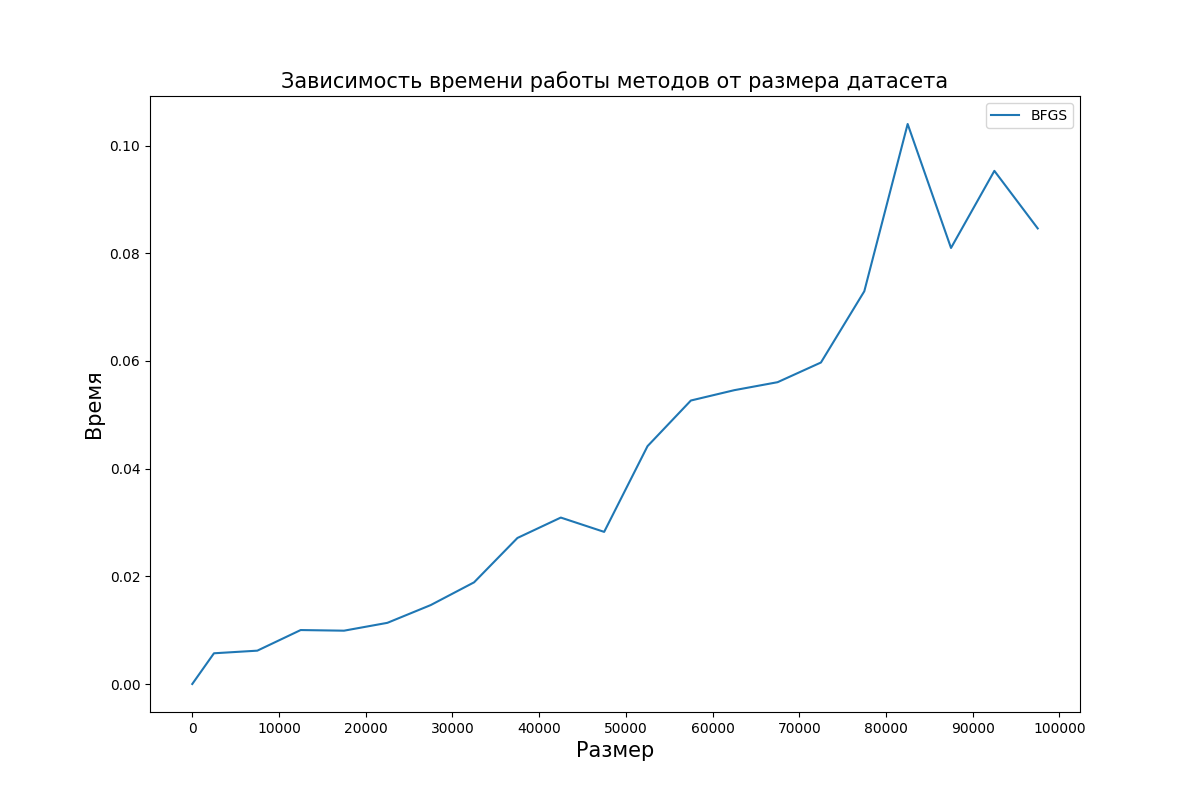
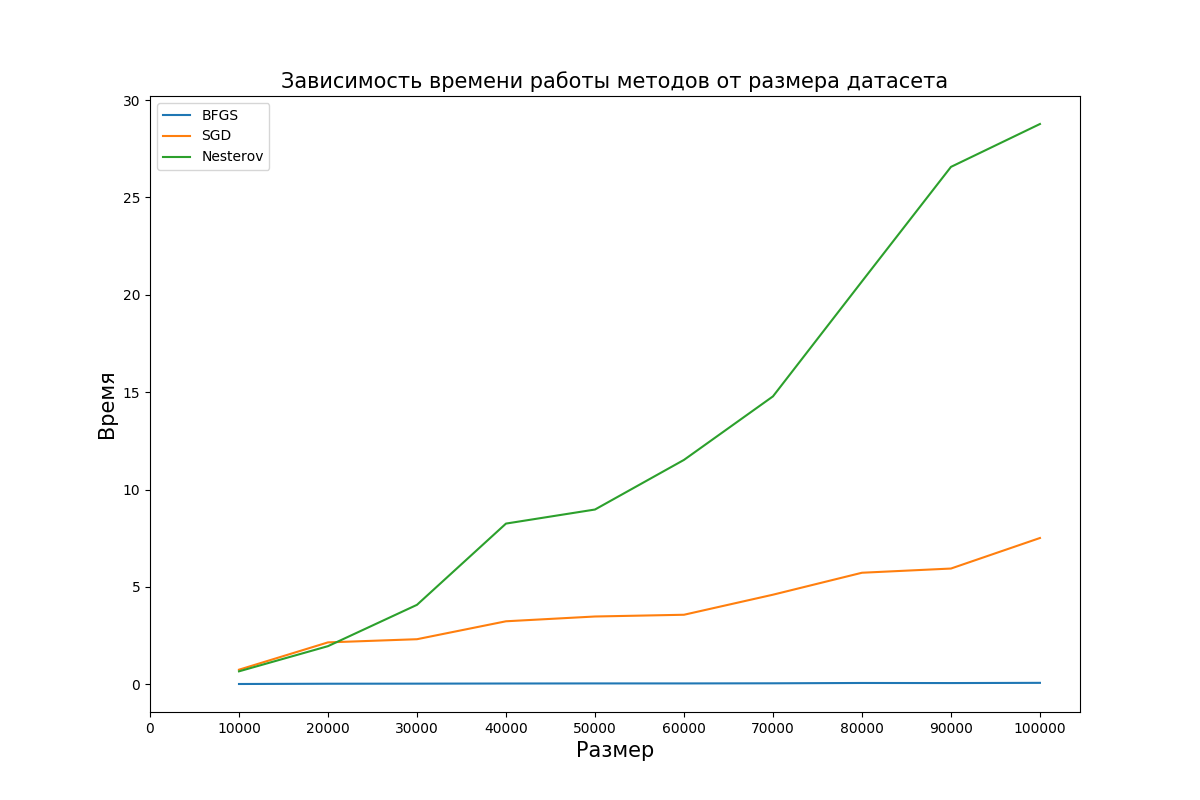
new beautiful awesome images

diff --git a/test.py b/test.py
@@ -5,10 +5,11 @@ import numpy as np
 import time
 
 from data_generator import create_data
-from gradient_computing import mse_metric, mse_grad
+from gradient_computing import mse_metric, mse_grad, L
 from nesterov import nesterov_descent
 from numpy import loadtxt
 from scipy.optimize import minimize
+from simple_grad_descend import SGD
 
 def parse_args():
     parser = argparse.ArgumentParser()
@@ -16,6 +17,9 @@ def parse_args():
                         help='Путь к файлу с dataset', default='./data/default_data.csv')
     parser.add_argument('--label', '-l',
                         help='Путь к файлу с label', default='./data/default_labels.csv')
+    parser.add_argument('--step', type=int, default=10000)
+    parser.add_argument('--repeat', type=int, default=5)
+    parser.add_argument('--draw', type=int, default=0)
     return parser.parse_args()
 
 def mse_test(w, X=None, y=None):
@@ -24,41 +28,53 @@ def mse_test(w, X=None, y=None):
 def mse_grad_test(w, X=None, y=None):
     return mse_grad(X, y, w)
 
-def experiment(mse_test, X, y, method, init=None, sample_size=1000, kwargs={}):
-    if init is None:
-        init = np.ones(X.shape[1])
-    size = 2500
-    n = X.shape[0]
-    times = [0]
-    sizes = [0]
+args = parse_args()
+X = loadtxt(args.dataset, delimiter=',')
+y = loadtxt(args.label, delimiter=',') 
+n = y.shape[0]
+size = args.step
+comparsion = {'bfgs': [], 'sgd': [], 'nesterov': [], 'size': []}
+
+if args.draw == 1:
     while(size <= n):
-        print(size)
-        mse = functools.partial(mse_test, X=X[:size], y=y[:size])
-        if kwargs and 'jac' in kwargs:
-            kwargs['jac'] = functools.partial(mse_grad_test, X=X[:size], y=y[:size])
-        sample = []
-        for _ in range(sample_size):
-            start = time.time()
-            minimize(mse, init, method=method, **kwargs)
-            stop = time.time()
-            sample.append(stop-start)
-        times.append(np.array(sample).mean())
-        sizes.append(size)
-        size += 5*1000
+        print(f'Counting...Size={size}')
+        
+        init = np.ones(X.shape[1])
+        X_part = X[:size]
+        y_part = y[:size]
+        mse = functools.partial(mse_test, X=X_part, y=y_part)
+        grad = functools.partial(mse_grad_test, X=X_part, y=y_part)
+        start_bfgs, stop_bfgs = 0, 0
+        start_sgd, stop_sgd = 0, 0
+        start_nest, stop_nest = 0, 0
+        for _ in range(args.repeat):
+            #BFGS
+            start_bfgs += time.time()
+            minimize(mse, init, method='BFGS', jac=grad)
+            stop_bfgs += time.time()
 
-    return np.array(sizes), np.array(times)
+            #SGD
+            start_sgd += time.time()
+            SGD(X_part, y_part)
+            stop_sgd += time.time()
 
+            #Nesterov
+            start_nest += time.time()
+            nesterov_descent(mse, L(X_part), init, grad)
+            stop_nest += time.time()
 
-def make_plot(args):
-    X = loadtxt(args.dataset, delimiter=',')
-    y = loadtxt(args.label, delimiter=',')  
+        comparsion['bfgs'].append((stop_bfgs-start_bfgs) / args.repeat)
+        comparsion['sgd'].append((stop_sgd - start_sgd) / args.repeat)
+        comparsion['nesterov'].append((stop_nest - start_nest) / args.repeat)
+        comparsion['size'].append(size)
+        size += args.step
+
+    print(comparsion)
     plt.figure(figsize=(12, 8))
-    #x_plot, y_plot = experiment(mse_test, X, y, 'nelder-mead')
-    #plt.plot(x_plot, y_plot, label='nelder-mead')
-    #x_plot, y_plot = experiment(mse_test, X, y, 'powell')
-    #plt.plot(x_plot, y_plot, label='powell')
-    x_plot, y_plot = experiment(mse_test, X, y, 'BFGS', kwargs= {'jac':None})
-    plt.plot(x_plot, y_plot, label='BFGS')
+    x = comparsion['size']
+    plt.plot(x, comparsion['bfgs'], label='BFGS')
+    plt.plot(x, comparsion['sgd'], label='SGD')
+    plt.plot(x, comparsion['nesterov'], label='Nesterov')
     plt.xticks(np.arange(11)*10000)
     plt.xlabel('Размер', fontsize=15)
     plt.ylabel('Время', fontsize=15)
@@ -67,26 +83,32 @@ def make_plot(args):
     plt.savefig('./img/test')
 
 
-args = parse_args()
-#make_plot(args)
-X = loadtxt(args.dataset, delimiter=',')
-y = loadtxt(args.label, delimiter=',')  
+
+
+
 mse = functools.partial(mse_test, X=X, y=y)
 grad = functools.partial(mse_grad_test, X=X, y=y)
+
+
+
+
+
+
+#make_plot(args)
 #ans1 = minimize(mse, init)
 #ans2 = minimize(mse, init, method='nelder-mead')
 #ans3 = minimize(mse, init, method='powell')
 init = np.ones(X.shape[1])
 #ans4 = minimize(mse, init, method='BFGS')
 #print(ans4)
-a = time.time()
-ans5 = minimize(mse, init, method='BFGS', jac=grad)
-b = time.time()
-print(b-a)
+#a = time.time()
+#ans5 = minimize(mse, init, method='BFGS', jac=grad)
+#b = time.time()
+#print(b-a)
 #print(ans5)
 #print(ans5)
 #print(ans1.fun, ans2.fun, ans3.fun)
-L = 1#np.max(np.linalg.eig(2 * X.T @ X)[0])
+L = np.max(np.linalg.eig(2 * X.T @ X)[0])
 a = time.time()
 x = nesterov_descent(mse, L, init, grad)
 b = time.time()

diff --git a/simple_grad_descend.py b/simple_grad_descend.py
@@ -22,7 +22,7 @@ start_time = time.process_time()
 X = loadtxt(args.dataset, delimiter=',')
 y = loadtxt(args.label, delimiter=',')  
 
-def SGD(X, y, min_weight_dist, batch_size=1, steps_number=10**7, delta=0.1):
+def SGD(X, y, min_weight_dist=10**-8, batch_size=1, steps_number=10**7, delta=0.1):
     X = np.hstack([np.ones((X.shape[0], 1)), X])
 
     feature_number = X.shape[1]
@@ -31,11 +31,11 @@ def SGD(X, y, min_weight_dist, batch_size=1, steps_number=10**7, delta=0.1):
 
     w = np.hstack([np.arange(1, feature_number + 1)])
     # w = np.hstack([1 , np.random.rand(feature_number - 1)])
-    print(w)
-    print(f'mse for random weights {mse_metric(X, y, w)}')
+    # print(w)
+    #print(f'mse for random weights {mse_metric(X, y, w)}')
 
-    data_loading_time = time.process_time()
-    print(f'data loading time is {data_loading_time - start_time}')
+    #data_loading_time = time.process_time()
+    #print(f'data loading time is {data_loading_time - start_time}')
 
 
 
@@ -47,8 +47,7 @@ def SGD(X, y, min_weight_dist, batch_size=1, steps_number=10**7, delta=0.1):
         batch_idxs = np.random.randint(X.shape[0], size=batch_size)
 
         # выбираем размер шага (learning rate)
-        step_size = choose_step_size(cur_step) # тут заглушка!!!
-
+        step_size = 0.01#choose_step_size(cur_step) # тут заглушка!!!
         # делаем шаг
         w_new  = gradient_step(X, y, w, batch_idxs, step_size)
         # если текущий таймстемп лежит в множестве синхронизируемых, то синхронизируемся))
@@ -58,10 +57,10 @@ def SGD(X, y, min_weight_dist, batch_size=1, steps_number=10**7, delta=0.1):
         cur_step += 1
 
 
-    final_time = time.process_time()
-    print(f'algorithm time is {final_time - data_loading_time}')
-    print(f'general time is {final_time - start_time}')
-    print(f'final value mse after {cur_step} for 1 worker is {mse_metric(X, y, w)}')
+    #final_time = time.process_time()
+    #print(f'algorithm time is {final_time - data_loading_time}')
+    #print(f'general time is {final_time - start_time}')
+    #print(f'final value mse after {cur_step} for 1 worker is {mse_metric(X, y, w)}')
 
 #n = y.shape[0]
 #for i in range(1, 11):
